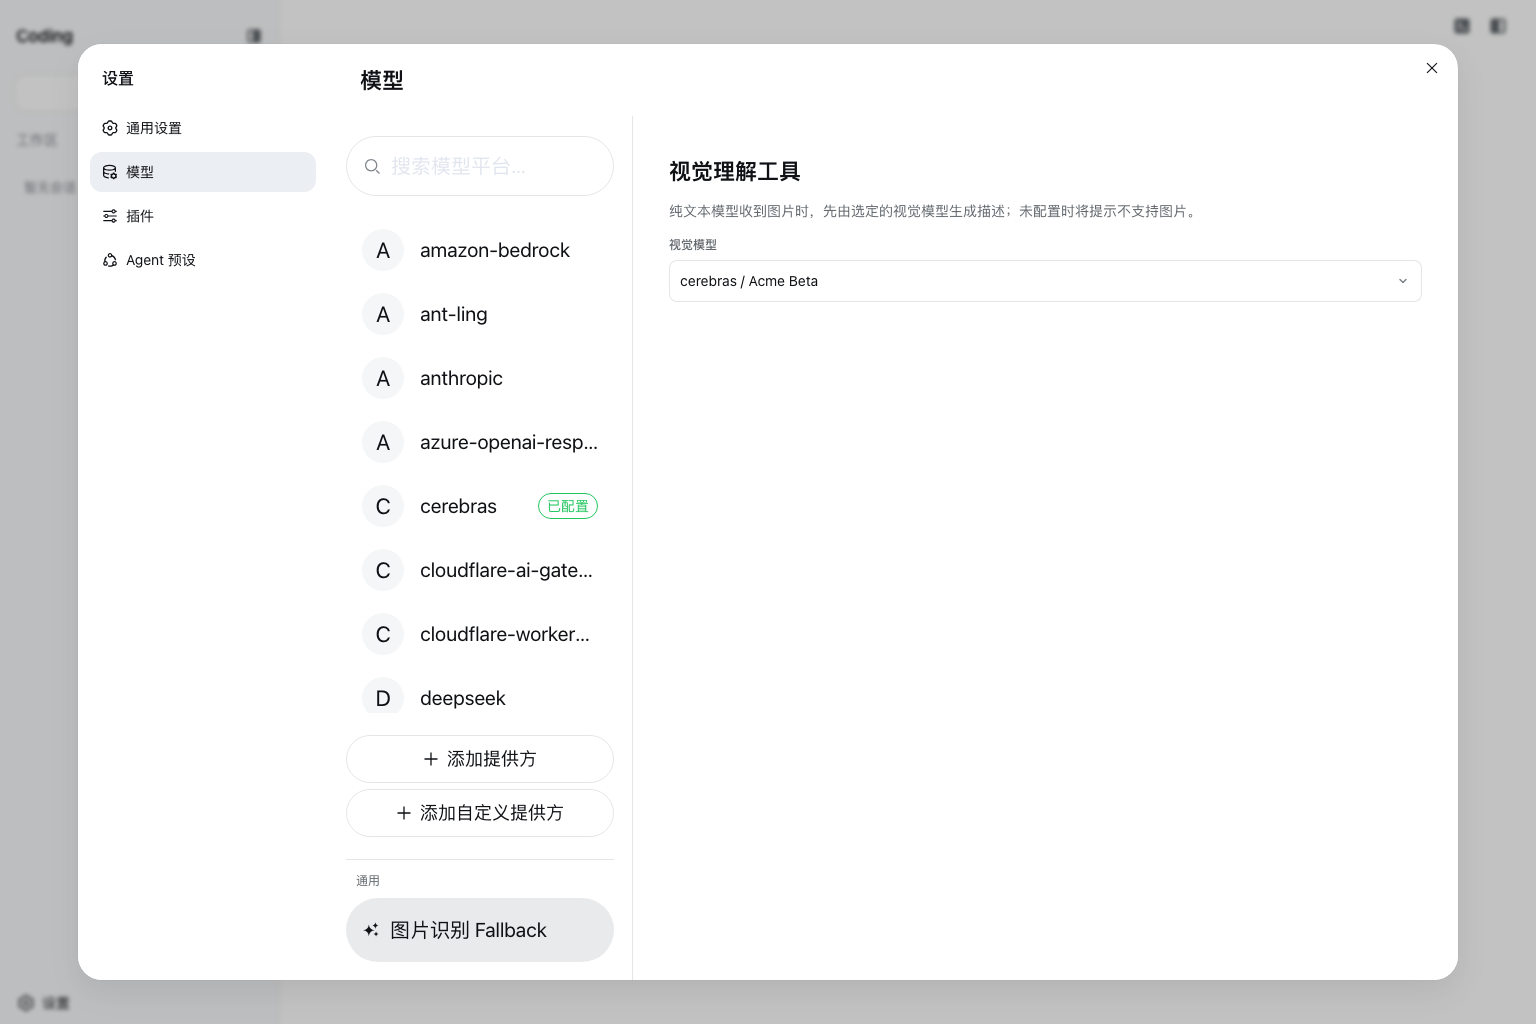
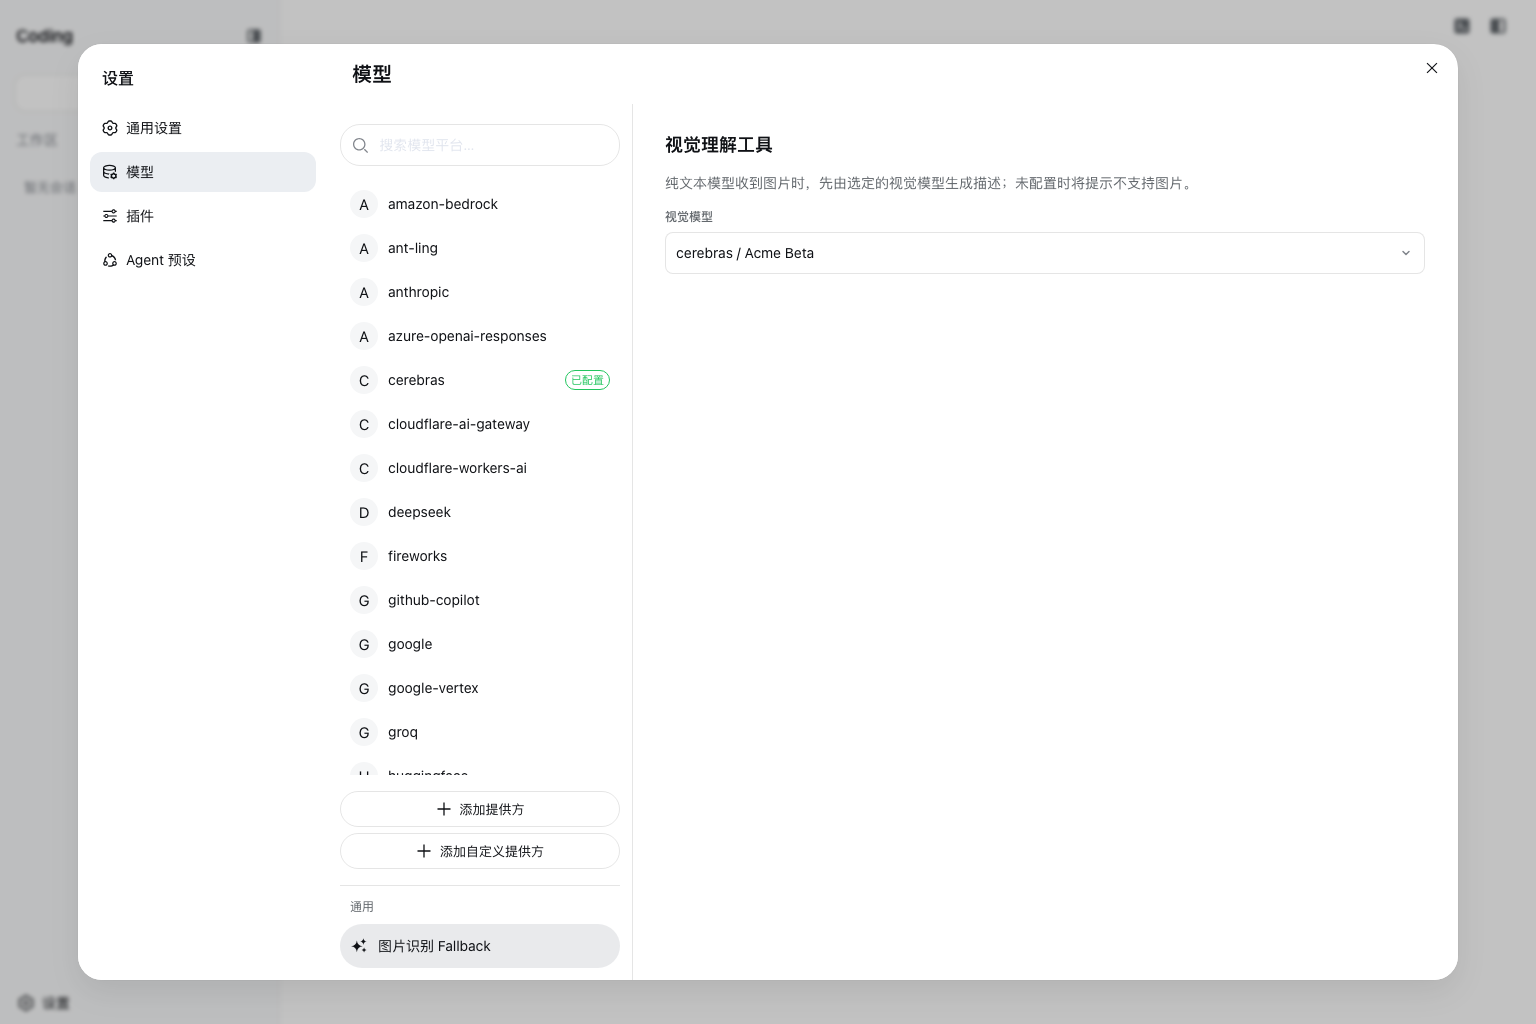
收紧模型设置字号与图标尺寸

diff --git a/packages/client/ui-settings-models/src/client/ModelsSection.module.css b/packages/client/ui-settings-models/src/client/ModelsSection.module.css
@@ -730,8 +730,8 @@ select.input {
 
 /* 模型页的两栏平面：目录可独立滚动，编辑区不再嵌套渠道卡片。 */
 .modelsSurface { display: flex; flex-direction: column; width: 100%; height: 100%; min-height: 0; }
-.modelsHeader { box-sizing: border-box; flex: none; display: flex; align-items: center; min-height: 72px; padding: 16px 72px 16px 32px; }
-.modelsHeader h1 { margin: 0; font-size: 22px; line-height: 30px; font-weight: 600; }
+.modelsHeader { box-sizing: border-box; flex: none; display: flex; align-items: center; min-height: 60px; padding: 12px 72px 12px 24px; }
+.modelsHeader h1 { margin: 0; font-size: 20px; line-height: 28px; font-weight: 600; }
 .channelPage {
   display: grid;
   grid-template-columns: minmax(220px, 27%) minmax(0, 1fr);
@@ -986,45 +986,10 @@ select.input {
 .generalActions p { margin: 0 10px 8px; color: var(--dsw-alias-label-secondary); font-size: 12px; line-height: 18px; }
 .generalActions .channelRow { gap: 10px; }
 .visionDetail { max-width: 760px; }
-.visionDetail h2 { margin: 0; font-size: 22px; line-height: 30px; }
+.visionDetail h2 { margin: 0; font-size: 18px; line-height: 26px; }
 .visionDetail p { color: var(--dsw-alias-label-secondary); font-size: 14px; line-height: 22px; overflow-wrap: anywhere; }
 .visionDetail [role="alert"] { color: var(--dsw-alias-state-error-primary); }
 .visionDetail select.input { max-width: 100%; height: 42px; }
-
-@media (min-width: 900px) {
-  .channelRail { gap: 22px; padding: 20px 18px 18px; }
-  .channelSearch { height: 58px; border-radius: 30px; padding: 0 18px; }
-  .channelSearch input { font-size: 20px; line-height: 28px; }
-  .channelRow { min-height: 64px; gap: 16px; padding: 9px 16px; border-radius: 32px; font-size: 20px; line-height: 28px; }
-  .channelAvatar { width: 42px; height: 42px; font-size: 22px; line-height: 28px; }
-  .channelConfigured { border-radius: 16px; padding: 2px 8px; font-size: 14px; line-height: 20px; }
-  .channelAdd { min-height: 48px; border-radius: 24px; font-size: 18px; line-height: 26px; }
-  .channelDetail { padding: 40px 36px; }
-  .channelHeading { min-height: 54px; margin-bottom: 30px; }
-  .channelHeading h2 { font-size: 26px; line-height: 36px; }
-  .channelFields { gap: 28px; }
-  .channelFields .fieldLabel, .channelFields .modelCatalogTitle { font-size: 22px; line-height: 30px; }
-  .channelFields .input { height: 56px; font-size: 20px; line-height: 28px; }
-  .channelFields .customizedBody { gap: 34px; }
-  .channelFields .modelCatalog { padding-top: 18px; gap: 18px; }
-  .channelFields .modelCatalogMeta { font-size: 15px; line-height: 22px; }
-  .channelFields .modelEntry { padding: 12px; border-radius: 12px; }
-  .channelFields .modelRow { gap: 12px; }
-  .channelFields .capabilityBadge { padding: 4px 10px; border-radius: 15px; font-size: 14px; line-height: 20px; }
-  .channelFields .modelEmpty { font-size: 16px; line-height: 24px; }
-  .channelFields .linkButton, .channelFields .addModelButton { height: 40px; border-radius: 20px; font-size: 17px; line-height: 24px; }
-  .candidateSearch { height: 64px; }
-  .candidateSearch input { font-size: 22px; line-height: 30px; }
-  .fetchDialog h2 { font-size: 28px; line-height: 38px; font-weight: 600; }
-  .fetchDialog > div > p { font-size: 18px; line-height: 26px; }
-  .candidateGroupHead { min-height: 64px; padding: 0 20px; font-size: 22px; line-height: 30px; }
-  .candidateCount { font-size: 15px; line-height: 22px; }
-  .candidate { min-height: 76px; padding-right: 20px; }
-  .candidateLabel { gap: 18px; padding: 12px 20px; }
-  .candidateLabel input { width: 18px; height: 18px; }
-  .candidateAvatar { width: 46px; height: 46px; font-size: 22px; line-height: 30px; }
-  .candidateId { font-size: 20px; line-height: 28px; }
-}
 
 @media (max-width: 620px) {
   .modelsHeader { min-height: 52px; padding: 10px 56px 10px 16px; }

diff --git a/packages/client/ui-settings-models/src/client/ModelListEditor.tsx b/packages/client/ui-settings-models/src/client/ModelListEditor.tsx
@@ -585,7 +585,7 @@ export function ModelListEditor(props: ModelListEditorProps): ReactNode {
               <button type="button" disabled={group.every(candidate => known.has(candidate.id))}
                 aria-label={`${t(group.every(candidate => known.has(candidate.id)) ? 'familyAdded' : 'addFamily')} ${family}`}
                 onClick={() => { adoptGroup(group) }}>
-                {group.every(candidate => known.has(candidate.id)) ? t('addedShort') : <IconPlusOutline16 size={24} />}</button></div>
+                {group.every(candidate => known.has(candidate.id)) ? t('addedShort') : <IconPlusOutline16 size={18} />}</button></div>
             {group.map(candidate => <div key={candidate.id} className={styles['candidate']}>
               <label className={styles['candidateLabel']}><input type="checkbox" disabled={known.has(candidate.id)}
                 checked={picked.has(candidate.id)}
@@ -595,7 +595,7 @@ export function ModelListEditor(props: ModelListEditorProps): ReactNode {
               <button type="button" className={styles['candidateAdd']} disabled={known.has(candidate.id)}
                 aria-label={`${t(known.has(candidate.id) ? 'addedModel' : 'addModel')} ${candidate.id}`}
                 onClick={() => { adoptGroup([candidate]) }}>
-                {known.has(candidate.id) ? t('addedShort') : <IconPlusOutline16 size={24} />}</button>
+                {known.has(candidate.id) ? t('addedShort') : <IconPlusOutline16 size={18} />}</button>
             </div>)}
           </li>)}
         </ul>

diff --git a/packages/client/ui-settings-models/tests/channel-geometry.client.spec.ts b/packages/client/ui-settings-models/tests/channel-geometry.client.spec.ts
@@ -15,4 +15,11 @@ describe('reference-size model settings geometry', () => {
     expect(modelCss).toContain('width: min(1500px, calc(100vw - 96px))')
     expect(modelCss).toContain('.fetchDialog { width: calc(100vw - 24px); max-width: calc(100vw - 24px); }')
   })
+
+  it('keeps desktop rows and avatars at the same compact scale as the settings navigation', () => {
+    expect(modelCss).toMatch(/\.channelRow \{[^}]*min-height: 44px;[^}]*font-size: 14px;/s)
+    expect(modelCss).toMatch(/\.channelAvatar \{[^}]*width: 28px;[^}]*height: 28px;[^}]*font-size: 15px;/s)
+    expect(modelCss).toContain('.channelFields .input { height: 38px; }')
+    expect(modelCss).not.toContain('@media (min-width: 900px)')
+  })
 })
